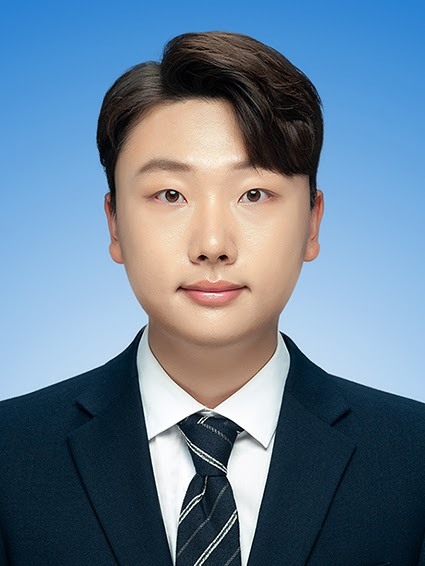
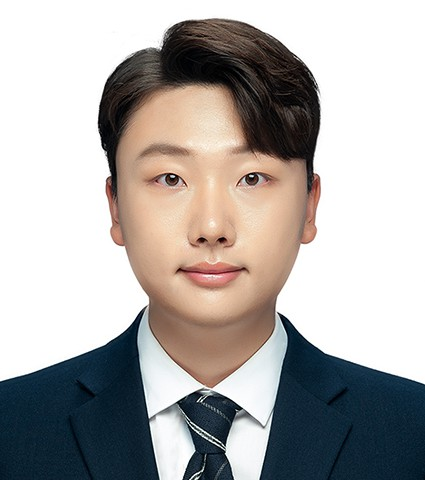
Replace portrait photo
New photo supplied by the author, pre-cropped to the 154x174 on-page
aspect ratio (425x480) with EXIF stripped. A 1px light border frames
the white-background photo.

Claude-Session: https://claude.ai/code/session_01HHHkepjgZjcXhYPRDDGcNM

diff --git a/assets/custom.css b/assets/custom.css
@@ -1,4 +1,4 @@
-html{scroll-behavior:smooth;scroll-padding-top:28px}body{font-size:17px;background:#fff;color:#505762}.wrapper{width:1050px;margin:0 auto}header{width:245px;padding-top:68px}section{width:700px;padding-top:62px}h1,h2,h3{color:#173955}h1{font-size:31px;margin:20px 0 0}h2{font-size:25px;margin:32px 0 17px}h3{font-size:18px;line-height:1.35;margin:0 0 5px}p{margin:0 0 14px}a{color:#25678b}a:hover{text-decoration:underline}strong{color:#263e50}.portrait{width:154px;height:174px;object-fit:cover;border-radius:6px}.korean{font:13px Arial,sans-serif;color:#808b93;margin:4px 0 16px}.role{line-height:1.5}.location{font-size:14px;color:#7d858d;margin:10px 0}.email{font:13px monospace}.profile-links{display:flex;justify-content:center;gap:13px;font-size:15px;margin-top:22px}nav{margin-top:33px;padding-top:20px;border-top:1px solid #e6ebee;display:flex;flex-direction:column;gap:10px;font-size:15px}nav a{color:#707d87}.topline{font:10px Arial,sans-serif;letter-spacing:2.4px;color:#83939e;margin-bottom:20px}#about h2{margin-top:0}.interests{font-size:14px;color:#3f718b}.interests span{margin:0 7px;color:#a7b4bc}.authors{font-size:14px;color:#737b82}.links{display:flex;gap:7px;margin-top:11px}.links a{font:11px Arial,sans-serif;padding:4px 9px;border:1px solid #bdcdd7;border-radius:3px}.pub-toolbar{display:flex;align-items:center;justify-content:space-between;gap:8px;margin-bottom:5px}.pub-toolbar>span{font-size:12px;color:#879097}.filters{display:flex;gap:5px}.filters button{font:12px Arial,sans-serif;border:0;background:transparent;color:#7b858e;padding:6px 10px;border-radius:3px;cursor:pointer}.filters button[aria-pressed=true]{background:#eaf1f5;color:#245773}.paper{padding:17px 0;border-bottom:1px solid #edf0f2}.paper h3{font-size:17px;font-weight:500}.paper p{margin:3px 0}.venue{font-size:14px;font-style:italic;color:#416d85}.paper[hidden]{display:none}details{margin:24px 0}summary{cursor:pointer;color:#32566c;font-size:17px}summary span{font-size:12px;color:#8a969e;margin-left:8px}.timeline>div{display:grid;grid-template-columns:140px 1fr;gap:15px;margin:20px 0}.timeline time{font-size:14px;color:#7e8b95}.timeline small{display:block;font-size:11px}.timeline p{font-size:15px}.timeline h3{font-size:18px}.page-footer{display:flex;justify-content:space-between;border-top:1px solid #e4e9ed;margin-top:36px;padding-top:16px;font-size:12px;color:#86939c}.page-footer a{color:#86939c}.skip{position:absolute;left:-10000px}.skip:focus{left:15px;top:10px}a:focus-visible,button:focus-visible,summary:focus-visible{outline:2px solid #337fa8;outline-offset:4px}@media(max-width:1100px){.wrapper{width:940px}section{width:620px}header{width:230px}}@media(max-width:960px){body{padding:24px}.wrapper{width:auto}header{position:static;float:none;width:auto;padding:15px 0 30px}section{float:none;width:auto;padding:30px 0;border:0;border-top:1px solid #e6ebee}nav{flex-direction:row;justify-content:center;flex-wrap:wrap;gap:20px;margin-top:24px}.portrait{width:122px;height:138px}.role{margin-bottom:6px}.topline{text-align:center}}@media(max-width:520px){body{padding:22px}.timeline>div{grid-template-columns:106px 1fr}.pub-toolbar{align-items:flex-start;flex-direction:column}.pub-toolbar>span{margin-top:4px}.filters{gap:1px}.page-footer{font-size:11px}}@media(prefers-reduced-motion:reduce){html{scroll-behavior:auto}}
+html{scroll-behavior:smooth;scroll-padding-top:28px}body{font-size:17px;background:#fff;color:#505762}.wrapper{width:1050px;margin:0 auto}header{width:245px;padding-top:68px}section{width:700px;padding-top:62px}h1,h2,h3{color:#173955}h1{font-size:31px;margin:20px 0 0}h2{font-size:25px;margin:32px 0 17px}h3{font-size:18px;line-height:1.35;margin:0 0 5px}p{margin:0 0 14px}a{color:#25678b}a:hover{text-decoration:underline}strong{color:#263e50}.portrait{width:154px;height:174px;object-fit:cover;border-radius:6px;border:1px solid #e1e8ed;box-sizing:border-box}.korean{font:13px Arial,sans-serif;color:#808b93;margin:4px 0 16px}.role{line-height:1.5}.location{font-size:14px;color:#7d858d;margin:10px 0}.email{font:13px monospace}.profile-links{display:flex;justify-content:center;gap:13px;font-size:15px;margin-top:22px}nav{margin-top:33px;padding-top:20px;border-top:1px solid #e6ebee;display:flex;flex-direction:column;gap:10px;font-size:15px}nav a{color:#707d87}.topline{font:10px Arial,sans-serif;letter-spacing:2.4px;color:#83939e;margin-bottom:20px}#about h2{margin-top:0}.interests{font-size:14px;color:#3f718b}.interests span{margin:0 7px;color:#a7b4bc}.authors{font-size:14px;color:#737b82}.links{display:flex;gap:7px;margin-top:11px}.links a{font:11px Arial,sans-serif;padding:4px 9px;border:1px solid #bdcdd7;border-radius:3px}.pub-toolbar{display:flex;align-items:center;justify-content:space-between;gap:8px;margin-bottom:5px}.pub-toolbar>span{font-size:12px;color:#879097}.filters{display:flex;gap:5px}.filters button{font:12px Arial,sans-serif;border:0;background:transparent;color:#7b858e;padding:6px 10px;border-radius:3px;cursor:pointer}.filters button[aria-pressed=true]{background:#eaf1f5;color:#245773}.paper{padding:17px 0;border-bottom:1px solid #edf0f2}.paper h3{font-size:17px;font-weight:500}.paper p{margin:3px 0}.venue{font-size:14px;font-style:italic;color:#416d85}.paper[hidden]{display:none}details{margin:24px 0}summary{cursor:pointer;color:#32566c;font-size:17px}summary span{font-size:12px;color:#8a969e;margin-left:8px}.timeline>div{display:grid;grid-template-columns:140px 1fr;gap:15px;margin:20px 0}.timeline time{font-size:14px;color:#7e8b95}.timeline small{display:block;font-size:11px}.timeline p{font-size:15px}.timeline h3{font-size:18px}.page-footer{display:flex;justify-content:space-between;border-top:1px solid #e4e9ed;margin-top:36px;padding-top:16px;font-size:12px;color:#86939c}.page-footer a{color:#86939c}.skip{position:absolute;left:-10000px}.skip:focus{left:15px;top:10px}a:focus-visible,button:focus-visible,summary:focus-visible{outline:2px solid #337fa8;outline-offset:4px}@media(max-width:1100px){.wrapper{width:940px}section{width:620px}header{width:230px}}@media(max-width:960px){body{padding:24px}.wrapper{width:auto}header{position:static;float:none;width:auto;padding:15px 0 30px}section{float:none;width:auto;padding:30px 0;border:0;border-top:1px solid #e6ebee}nav{flex-direction:row;justify-content:center;flex-wrap:wrap;gap:20px;margin-top:24px}.portrait{width:122px;height:138px}.role{margin-bottom:6px}.topline{text-align:center}}@media(max-width:520px){body{padding:22px}.timeline>div{grid-template-columns:106px 1fr}.pub-toolbar{align-items:flex-start;flex-direction:column}.pub-toolbar>span{margin-top:4px}.filters{gap:1px}.page-footer{font-size:11px}}@media(prefers-reduced-motion:reduce){html{scroll-behavior:auto}}
 /* Publication thumbnails */
 .paper{display:grid;grid-template-columns:150px minmax(0,1fr);gap:20px;align-items:start}
 .paper .thumb{width:150px;height:100px;display:block;margin-top:3px;object-fit:cover;border:1px solid #e1e8ed;border-radius:4px;background:#fff;box-sizing:border-box}
